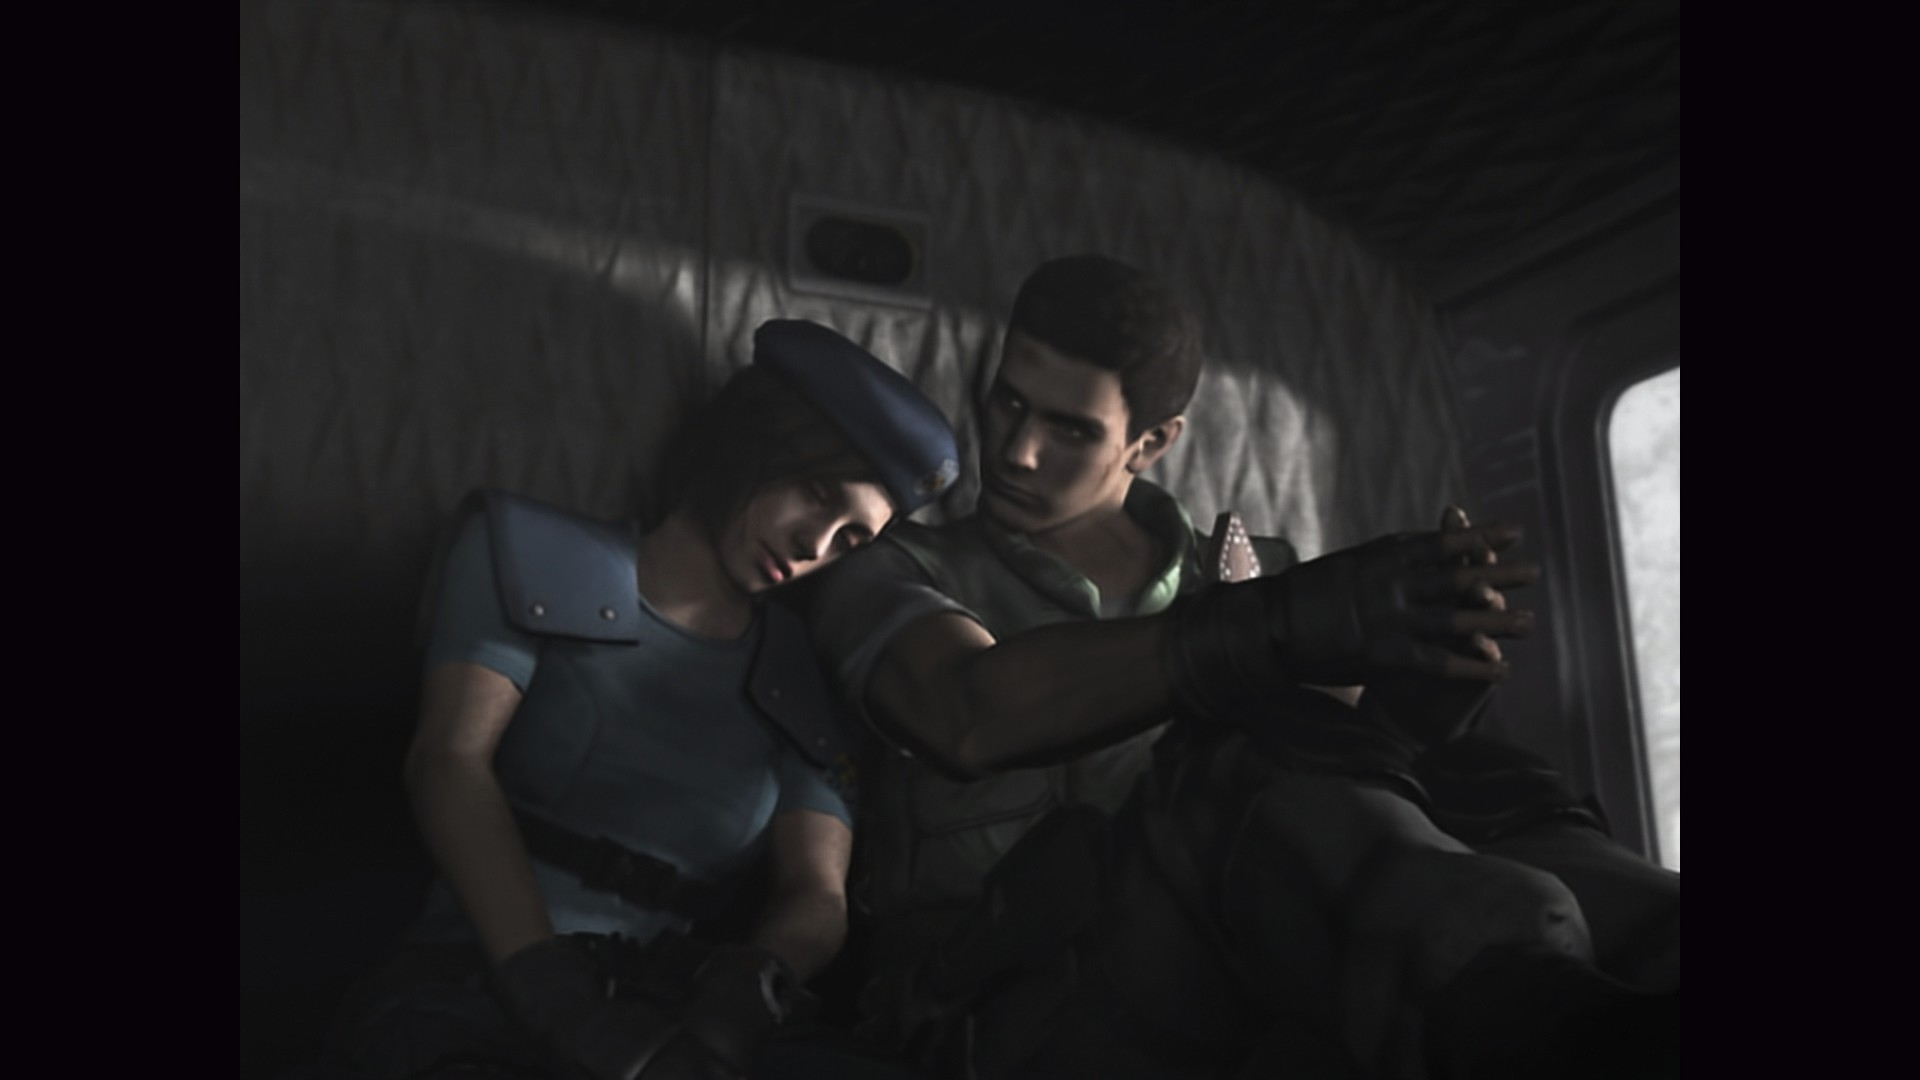
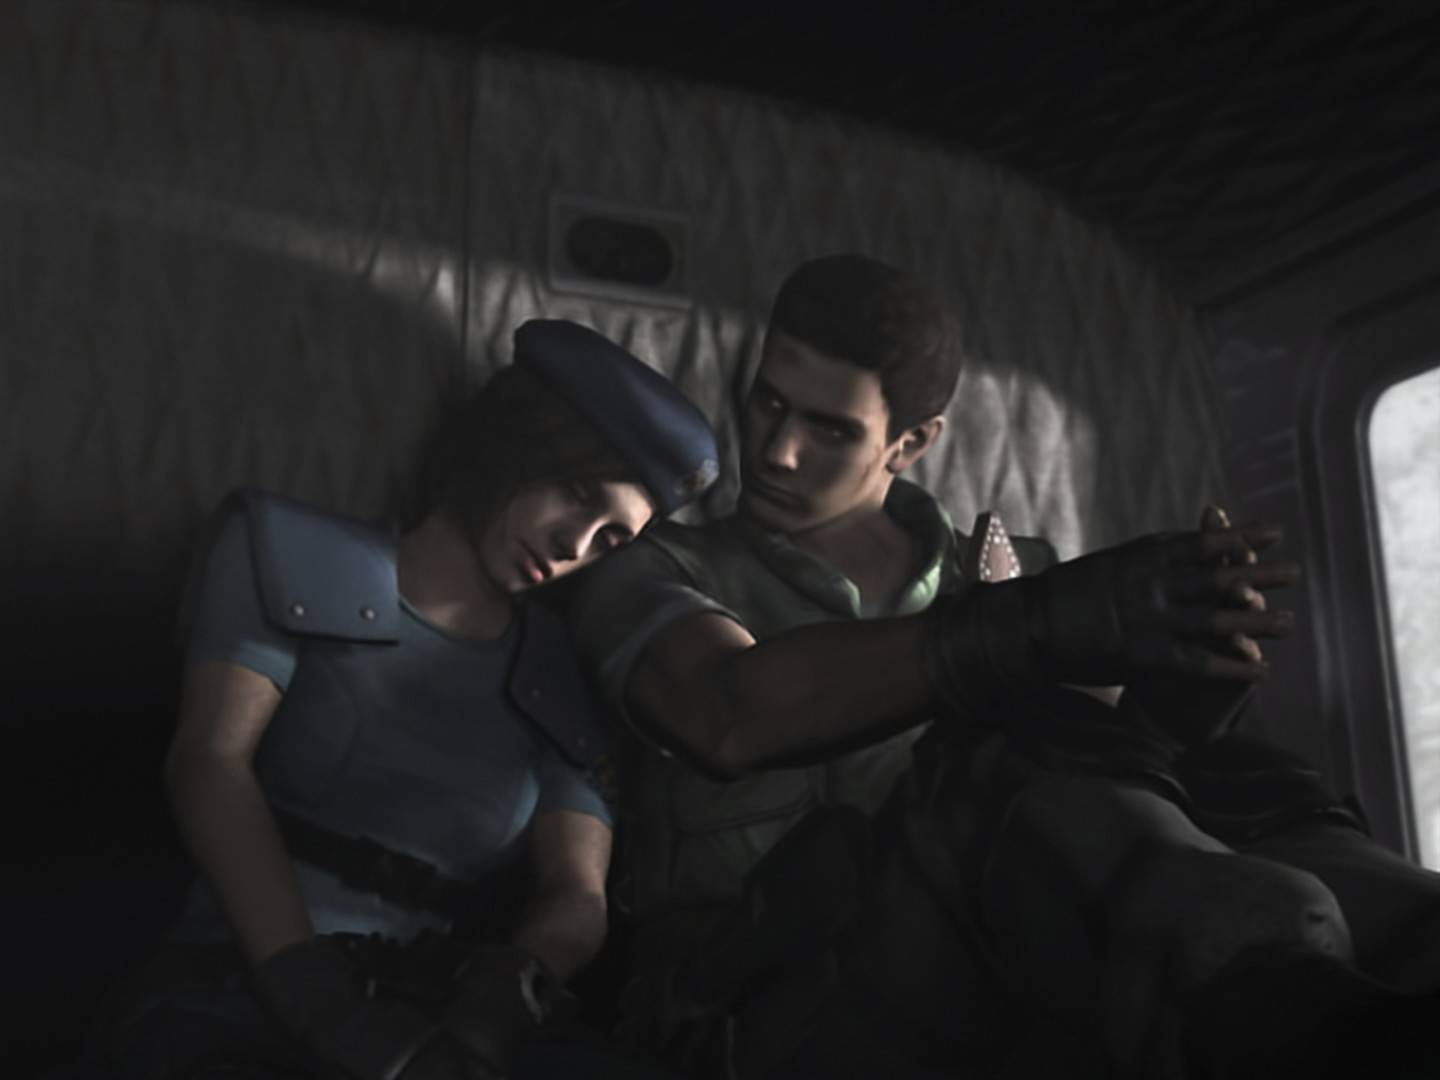
cropped re1 images + social share updated

diff --git a/src/assets/scripts/bundle/social-share.js b/src/assets/scripts/bundle/social-share.js
@@ -3,48 +3,36 @@ const shareFooterMenu = document.querySelector('[data-module="share-footer-menu"
 
 if (shareMenu) {
   const trigger = shareMenu.querySelector('[data-share-trigger]');
-  const list = shareMenu.querySelector('#share-list');
-  const copyBtn = shareMenu.querySelector('[data-copy-link]');
-  const webShareItem = shareMenu.querySelector('[data-web-share-item]');
-  const webShareBtn = shareMenu.querySelector('[data-web-share-trigger]');
-
-  // Toggle Dropdown
-  trigger.addEventListener('click', () => {
-    const expanded = trigger.getAttribute('aria-expanded') === 'true';
-    trigger.setAttribute('aria-expanded', !expanded);
-    list.hidden = expanded;
-  });
-
-  // Copy Link Logic
-  copyBtn.addEventListener('click', () => {
-    const url = copyBtn.dataset.copyLink;
-    navigator.clipboard.writeText(url).then(() => {
-      const originalText = copyBtn.innerText;
-      copyBtn.innerText = 'Copied! Go paste it.';
-      setTimeout(() => copyBtn.innerText = originalText, 2000);
-    });
-  });
 
   // Web Share API Logic
   if (navigator.share) {
-    webShareItem.hidden = false;
-    webShareBtn.addEventListener('click', () => {
+    trigger.addEventListener('click', () => {
       navigator.share({
-        title: webShareBtn.dataset.title,
-        url: webShareBtn.dataset.url
+        title: trigger.dataset.title,
+        url: trigger.dataset.url
       }).catch(console.error);
+    });
+  }
+
+  else {
+    trigger.addEventListener('click', () => {
+      const url = trigger.dataset.url;
+      navigator.clipboard.writeText(url).then(() => {
+        const originalText = trigger.innerText;
+        trigger.innerText = 'Copied! Go paste it.';
+        setTimeout(() => trigger.innerText = originalText, 2000);
+      });
     });
   }
 }
 
 if (shareFooterMenu) {
-  const webShareFooterBtn = shareFooterMenu.querySelector('[data-web-share-trigger]');
-
-   if (webShareFooterBtn && navigator.share) {
-    webShareFooterBtn.addEventListener('click', () => {
+  const trigger = shareFooterMenu.querySelector('[data-footer-share-trigger]');
+  if (navigator.share) {
+    trigger.addEventListener('click', () => {
       navigator.share({
-        title: webShareFooterBtn.dataset.title,
-        url: webShareFooterBtn.dataset.url
+        title: trigger.dataset.title,
+        url: trigger.dataset.url
       }).catch(console.error);
     });
   }

diff --git a/src/_data/seriesMeta.js b/src/_data/seriesMeta.js
@@ -2,7 +2,7 @@ export default {
     "New Gaze Plus: The NES/Famicom & The Weight of Age": {
         description: "A 30 game adventure to see if treasure is still in this castle.",
         accentColor: "#711521",
-        headerTextColor: "#dfe2e4",
+        headerTextColor: "#f0ecdb",
         headerLogo: "/assets/images/series/ngptwoa.png",
         headerLogoAlt: "alt"
     },

diff --git a/src/posts/2026/re1make/re1make.md b/src/posts/2026/re1make/re1make.md
@@ -58,4 +58,4 @@ Yes, it is birth in the sense that it's the first game (canonically) of a franch
 
 *Resident Evil* (2002) is the birth of twins, Tragedy and Fortune. Tragedy is heralded as a replacement for a game it held in such high regard, enough respect that it taught me why survival horror is as compelling as it is. Made with such love and admiration for the original that it's still underneath, under a cheesy veneer perhaps, but wholly ambitious just as it was because it understood what was frightening. A new remake may come out. Maybe it'll be good and take risks in its own way, but the consequences of the belief that one game can replace another will show themselves again for the second time: a ship of Theseus made manifest for one of gaming’s most influential. What becomes of *RE1* and how we talk about it? Fortune lives her life though. She signs her fair share of autographs, but there’s always a worry that age is getting to her. It takes a while to get to know her and she lives pretty far out, but she isn’t too worried. She wears itchy sweaters, but with a tasty cup of hot chocolate in hand, she tells the best ghost story you’ve heard in a very long time. It's one you’ve probably heard before, but it always strikes you like lightning, like you were there the first time it was told. What power makes men do, what power can force onto others, and what power good people obtain for themselves. Fortune favors the bold, and she would know, after all. Fear can’t kill you, especially if that fear is re-entering survival horror’s genesis, but, remade, a story may take a crimson form. Different, sure, but alive again, red heart still beating, with all the love in the world to stay alive as one of the medium's bloody best. 
 
-{% image "/posts/2026/re1make/jill_chris.jpg", "Jill Valentine rests on the shoulder of Chris Redfield.", null, "My own screenshot." %}
+{% image "/posts/2026/re1make/jill_chris.jpg", "Jill Valentine rests on the shoulder of Chris Redfield.", null, "My own screenshot." %} 

diff --git a/src/posts/2026/marathon/marathon.md b/src/posts/2026/marathon/marathon.md
@@ -1,13 +1,16 @@
 ---
 title: 'Marathon (2026): Shells In The Wild'
-description: "Fear can't kill you. But, remade, it may take a crimson form..."
+description: "Beauty in every death, every resurrection, every new grasp at life."
 date: 2026-03-20
 redirectFrom: ['/blog/marathon']
 tags: ['games', 'marathon', 'shooters', 'online', 'review']
-image: '/posts/2026/marathon/mthn_decrypt.jpg' 
+image: '/posts/2026/marathon/searching.jpg' 
 alt: 'A zombie (the 1st encountered in the game Resident Evil) stands slightly distorted in front of a raw black background, turning its eye toward the viewer.'
 credit: 'My own screenshot.'
 bskyurl: 
 draft: true
 ---
 gaming
+{% image "/posts/2026/marathon/mthn_decrypt.jpg", "A visual explanation of tank controls in games, using directions to show the difference between tank controls and more modern schemes.", "I even made a convenient explanation for you all from the master of unlocking!", "My own graphic design." %}
+{% image "/posts/2026/marathon/loadout.jpg", "A visual explanation of tank controls in games, using directions to show the difference between tank controls and more modern schemes.", null, "My own graphic design." %}
+{% image "/posts/2026/marathon/station_tunnels.jpg", "A visual explanation of tank controls in games, using directions to show the difference between tank controls and more modern schemes.", "I even made a convenient explanation for you all from the master of unlocking!", "My own graphic design." %}

diff --git a/src/pages/uses.md b/src/pages/uses.md
@@ -4,7 +4,6 @@ permalink: /uses/index.html
 description: 'My /uses page for my setup and software.'
 layout: page
 image: '/assets/images/pages/uses/setup-feb28.jpg'
-ogImage: '/assets/images/pages/uses/setup-feb28.jpg'
 alt: 'Claire overlooks a beautiful mountainscape: an aurora of blue and purple light the sky.'
 credit: An image of my setup from February 2026.
 lastEdit: 2025-02-28
